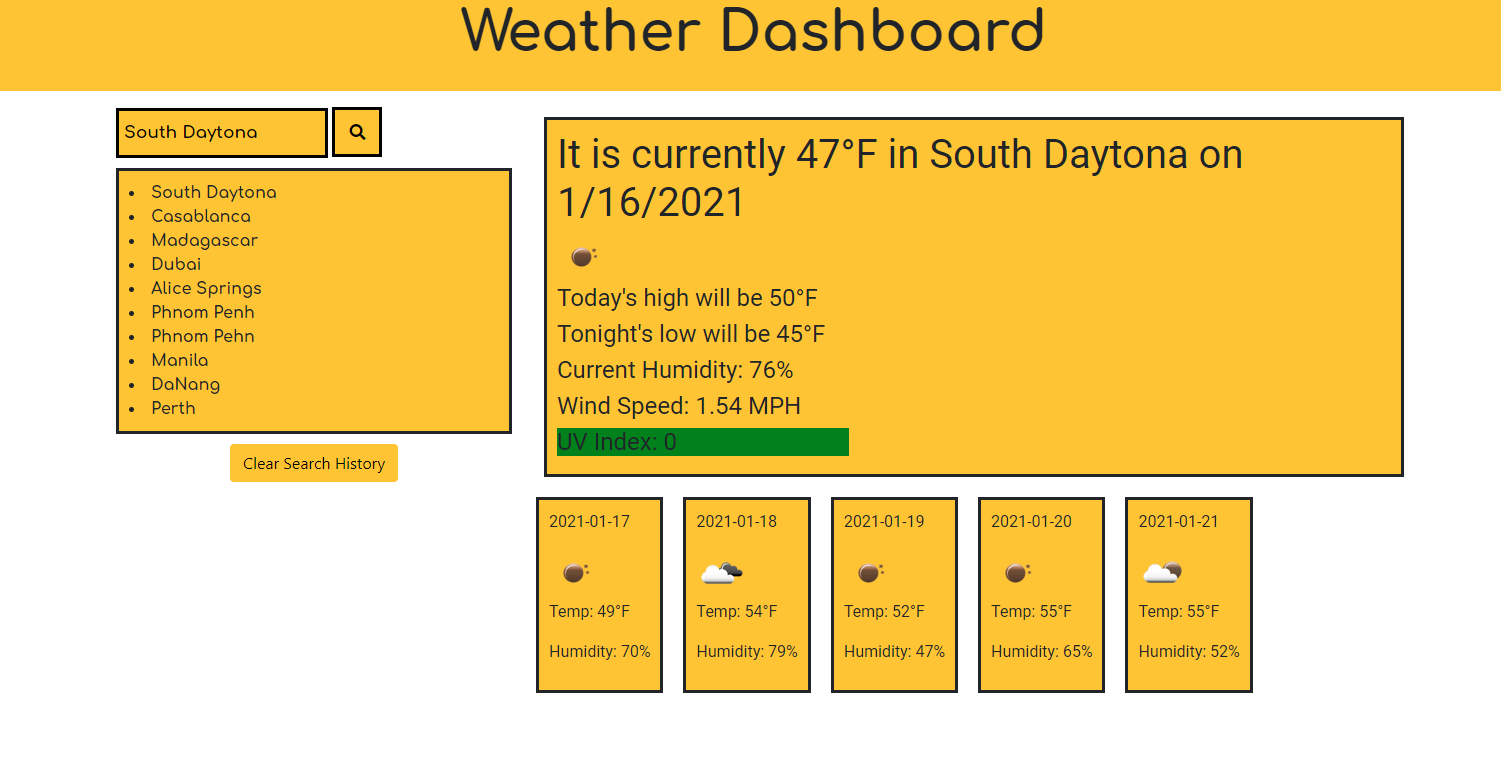
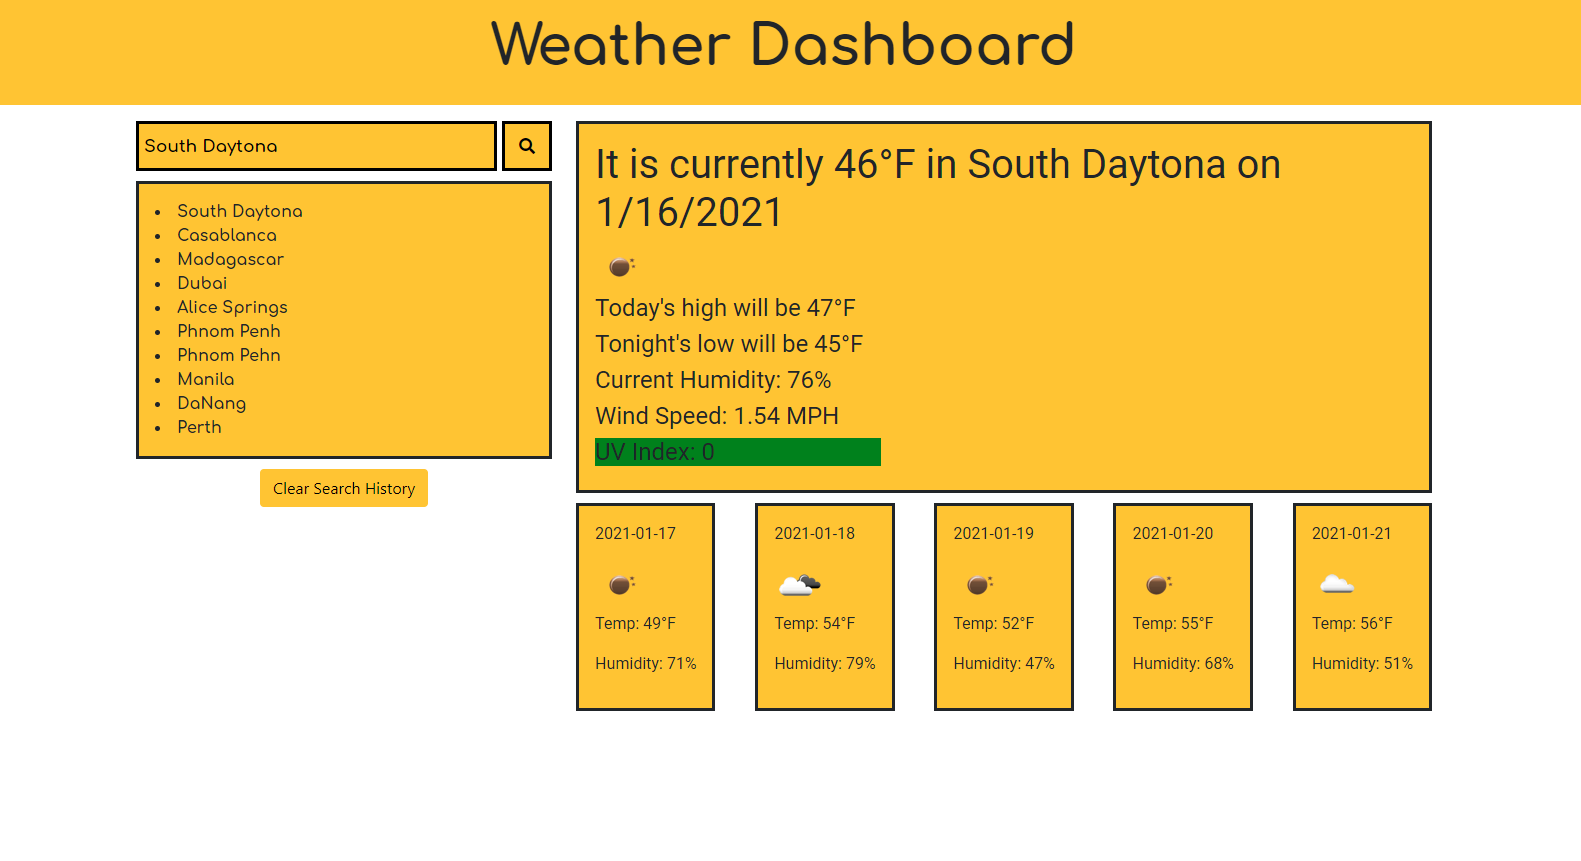
added flexbox

Changed region(s): [[0.0, 0.0, 1.0, 0.8889]]

diff --git a/index.html b/index.html
@@ -26,9 +26,10 @@
 
     <div class="container">
         <div class="row">
+            <!-- Sidebar -->
             <div class="col-md-4 mt-2">
                 <div class="col-12 city-class">
-                    <form id="search-form">
+                    <form id="search-form d-flex">
                         <input id="city-search" type="text" placeholder="Search.." name="search">
                         <button id="search-button" type="submit"><i class="fas fa-search"></i></button>
                     </form>
@@ -42,79 +43,72 @@
                     </div>
                 </div>
             </div>
-            <div class="col-md-8 mt-2 card-main">
-                <div id="current-conditions" class="bg-warning card-body">
-                    <h1 id="cc"></h1>
-                    <img id="current-icon"></img>
-                    <h4 id="high"></h4>
-                    <h4 id="low"></h4>
-                    <h4 id="humid"></h4>
-                    <h4 id="speed"></h4>
-                    <h4 id="uv"></h4>
+            <!-- Weather -->
+            <div class="col-md-8 mt-2">
+                <!-- Current Conditions -->
+                <div class="col-md-12 card-main">
+                    <div id="current-conditions" class="bg-warning card-body">
+                        <h1 id="cc"></h1>
+                        <img id="current-icon"></img>
+                        <h4 id="high"></h4>
+                        <h4 id="low"></h4>
+                        <h4 id="humid"></h4>
+                        <h4 id="speed"></h4>
+                        <h4 id="uv"></h4>
+                    </div>
+                </div>
+                <!-- Forecast -->
+                <div class="row forecast-row">
+                    <div class="col-auto card-main">
+                        <div class="bg-warning card-body five">
+                            <p id="five-date-one"></p>
+                            <img id="five-icon-one"></img>
+                            <p id="five-high-one"></p>
+                            <p id="five-low-one"></p>
+                            <p id="humid-one"></p>
+
+                        </div>
+                    </div>
+                    <div class="col-auto card-main">
+                        <div class="bg-warning card-body five">
+                            <p id="five-date-two"></p>
+                            <img id="five-icon-two"></img>
+                            <p id="five-high-two"></p>
+                            <p id="five-low-two"></p>
+                            <p id="humid-two"></p>
+                        </div>
+                    </div>
+                    <div class="col-auto card-main">
+                        <div class="bg-warning card-body five">
+                            <p id="five-date-three"></p>
+                            <img id="five-icon-three"></img>
+                            <p id="five-high-three"></p>
+                            <p id="five-low-three"></p>
+                            <p id="humid-three"></p>
+                        </div>
+                    </div>
+                    <div class="col-auto card-main">
+                        <div class="bg-warning card-body five">
+                            <p id="five-date-four"></p>
+                            <img id="five-icon-four"></img>
+                            <p id="five-high-four"></p>
+                            <p id="five-low-four"></p>
+                            <p id="humid-four"></p>
+                        </div>
+                    </div>
+                    <div class="col-auto card-main">
+                        <div class="bg-warning card-body five">
+                            <p id="five-date-five"></p>
+                            <img id="five-icon-five"></img>
+                            <p id="five-high-five"></p>
+                            <p id="five-low-five"></p>
+                            <p id="humid-five"></p>
+                        </div>
+                    </div>
+
                 </div>
             </div>
 
-
-
-
-
-            <!-- List Group for previous cities PREpended -->
-
-            <!--Cards for 5 day forecast -->
-
-
-            <div class="row">
-                <div class="col-sm-4">
-
-                </div>
-                <div class="col-auto card-main">
-                    <div class="bg-warning card-body five">
-                        <p id="five-date-one"></p>
-                        <img id="five-icon-one"></img>
-                        <p id="five-high-one"></p>
-                        <p id="five-low-one"></p>
-                        <p id="humid-one"></p>
-
-                    </div>
-                </div>
-                <div class="col-auto card-main">
-                    <div class="bg-warning card-body five">
-                        <p id="five-date-two"></p>
-                        <img id="five-icon-two"></img>
-                        <p id="five-high-two"></p>
-                        <p id="five-low-two"></p>
-                        <p id="humid-two"></p>
-                    </div>
-                </div>
-                <div class="col-auto card-main">
-                    <div class="bg-warning card-body five">
-                        <p id="five-date-three"></p>
-                        <img id="five-icon-three"></img>
-                        <p id="five-high-three"></p>
-                        <p id="five-low-three"></p>
-                        <p id="humid-three"></p>
-                    </div>
-                </div>
-                <div class="col-auto card-main">
-                    <div class="bg-warning card-body five">
-                        <p id="five-date-four"></p>
-                        <img id="five-icon-four"></img>
-                        <p id="five-high-four"></p>
-                        <p id="five-low-four"></p>
-                        <p id="humid-four"></p>
-                    </div>
-                </div>
-                <div class="col-auto card-main">
-                    <div class="bg-warning card-body five">
-                        <p id="five-date-five"></p>
-                        <img id="five-icon-five"></img>
-                        <p id="five-high-five"></p>
-                        <p id="five-low-five"></p>
-                        <p id="humid-five"></p>
-                    </div>
-                </div>
-
-            </div>
         </div>
 
         <script src="assets\script.js"></script>

diff --git a/assets/style.css b/assets/style.css
@@ -7,21 +7,24 @@
 }
 
 #search-form {
-  margin: 0 10px;
+  display: flex;
+  justify-content: space-between;
+  /* margin: 0 10px; */
 }
 
 #city-search {
   font-family: 'Comfortaa', cursive;
   background-color: #ffc107;
   padding: 5px;
+  margin-right: 5px;
   font-size: 17px;
   border: solid black;
   min-height: 50px;
-  width: auto;
+  flex-grow: 2;
 }
 
 #search-button {
-  padding: 5px;
+  /* padding: 5px; */
   background: #ffc107;
   color: black;
   min-height: 50px;
@@ -32,20 +35,27 @@
 
 #prev-city-display {
   font-family: 'Comfortaa', cursive;
-  position: relative;
+  margin: 10px 0;
 }
 
 #current-conditions {
   font-family: 'Roboto', sans-serif;
 }
-.card-body {
-  margin: 10px;
-  border: solid;
-  padding: 10px;
-}
 
 .card-main {
-  padding: 0px;
+  /* padding: 0 10px; */
+}
+
+.card-body {
+  /* margin: 10px; */
+  border: solid;
+  /* padding: 10px; */
+}
+
+.forecast-row {
+  margin-top: 10px;
+  display: flex;
+  justify-content: space-between;
 }
 
 .five {
